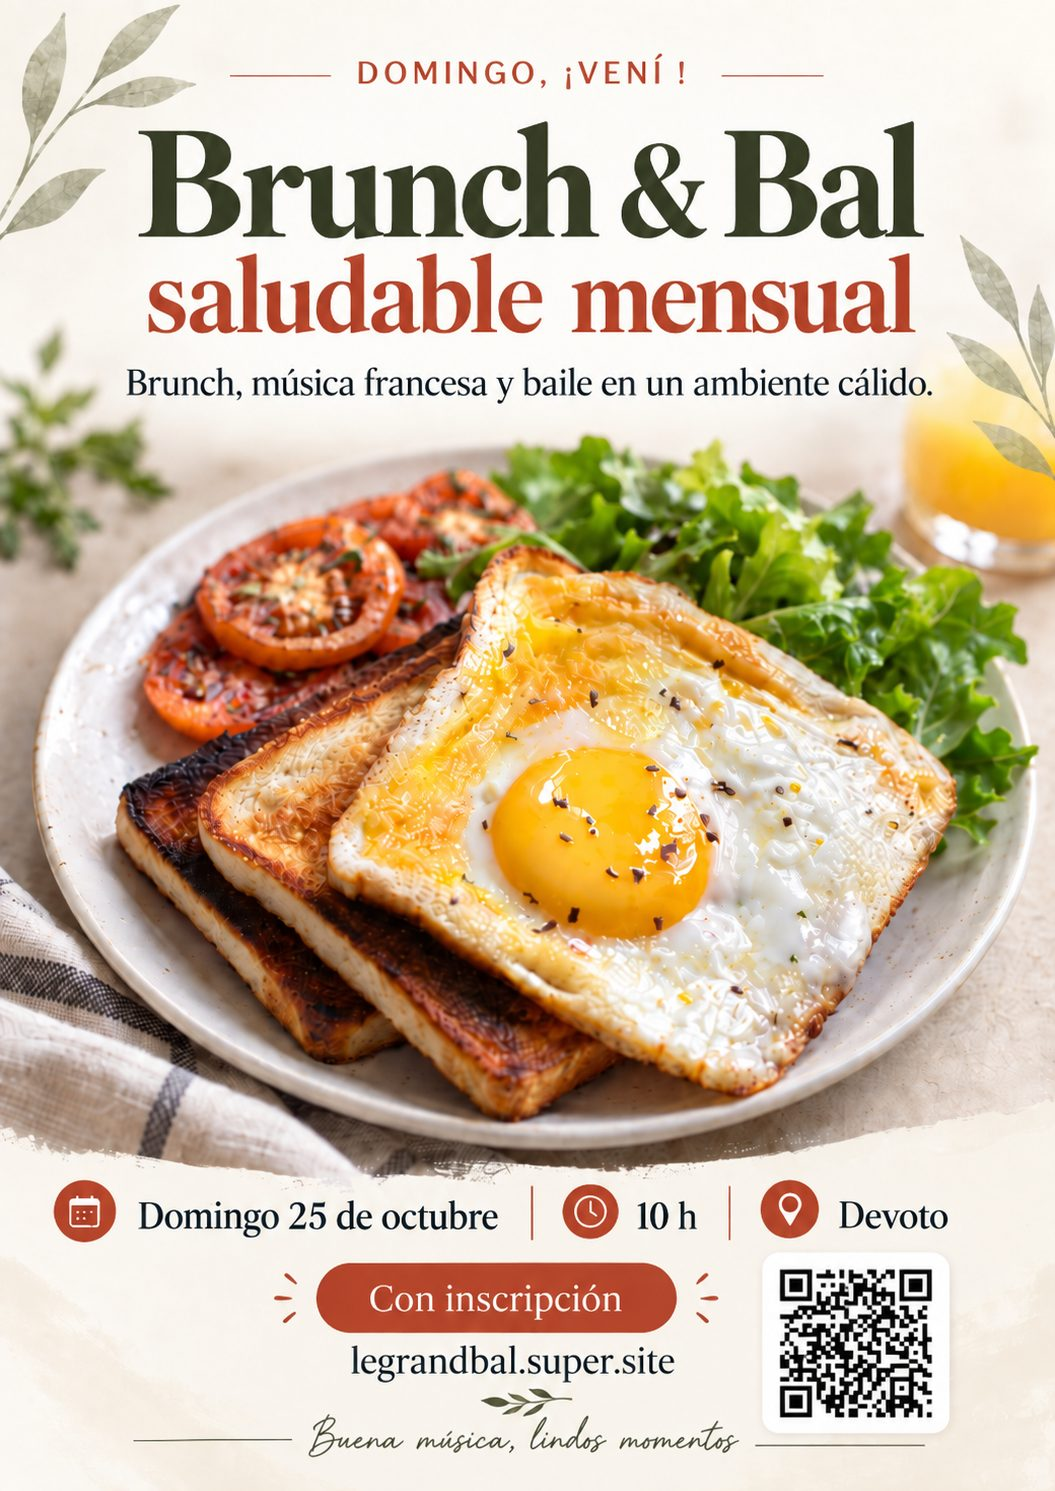
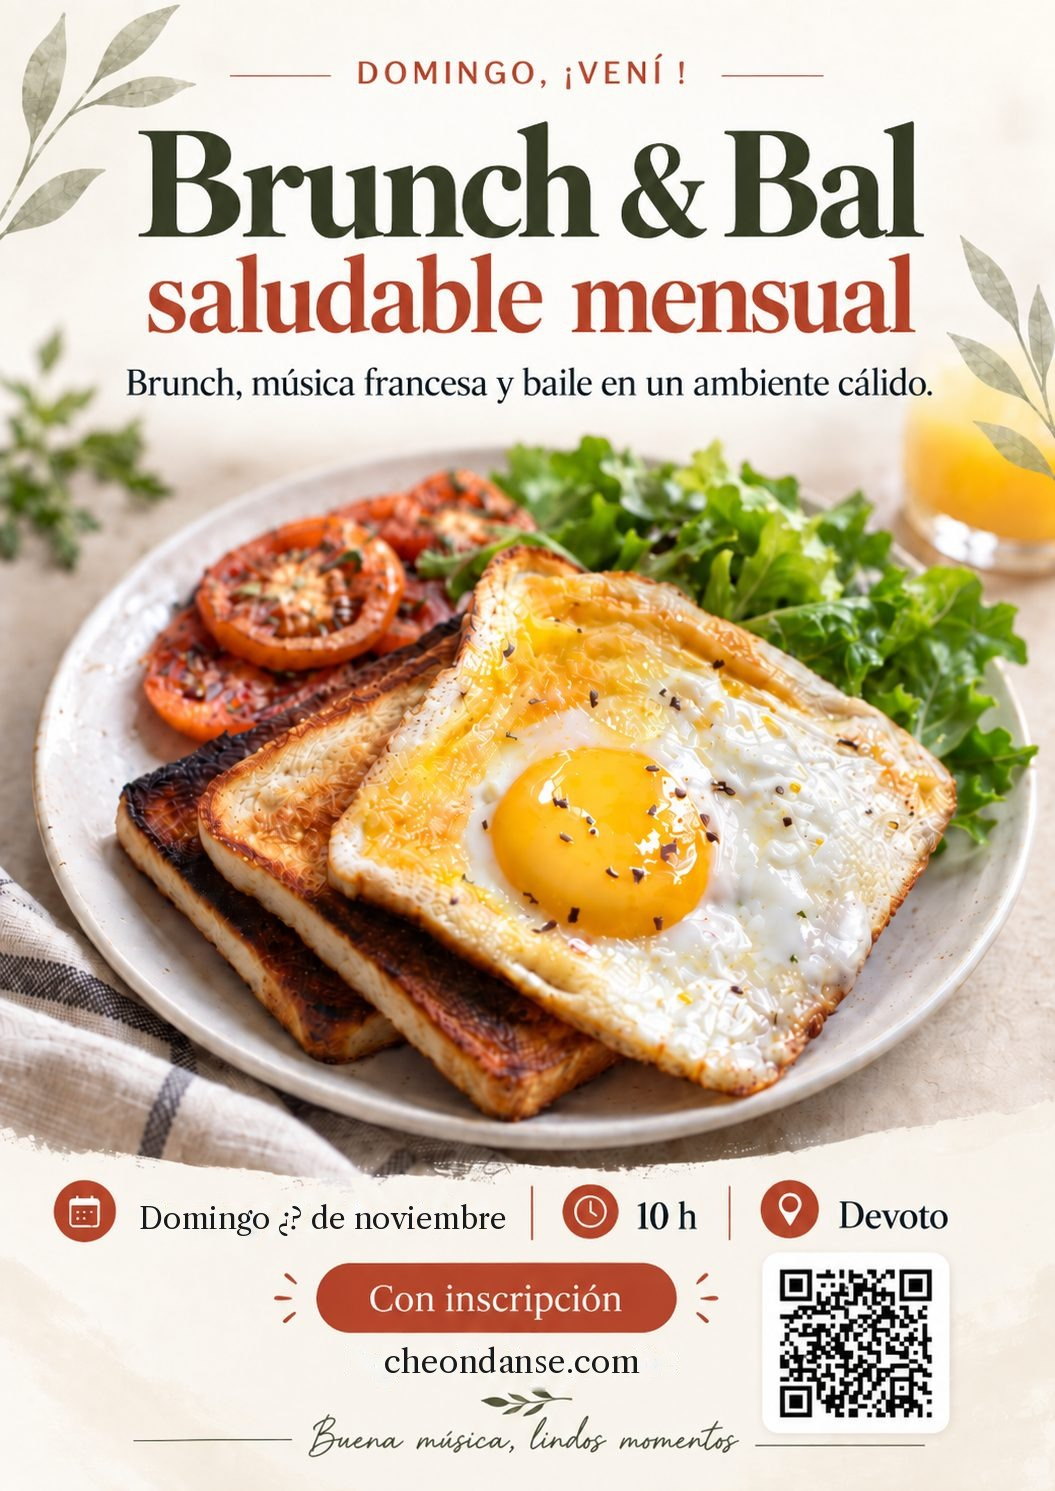
Afiches: horarios de clases, cheondanse.com y Brunch de noviembre a confirmar
Claude-Session: https://claude.ai/code/session_01XwxmdaK7y5MY3FNCPN73TM

Changed region(s): [[0.1213, 0.8021, 0.4853, 0.833], [0.3336, 0.8947, 0.637, 0.9256]]

diff --git a/participantes.html b/participantes.html
@@ -37,8 +37,8 @@ label{font-weight:700}input,button{font:inherit;border-radius:12px;padding:11px 
 <p class="note">Esta página muestra solamente nombres. DNI, fecha de nacimiento y datos de contacto no son públicos.</p>
 </main>
 <section class="galeria-che">
-<img loading="lazy" src="img/part-clases.jpg" alt="Clases de danzas francesas">
-<img loading="lazy" src="img/part-brunch.jpg" alt="Brunch & Bal">
+<img loading="lazy" src="img/part-clases.jpg?v=2" alt="Clases de danzas francesas">
+<img loading="lazy" src="img/part-brunch.jpg?v=2" alt="Brunch & Bal">
 <div class="profes">
 <img loading="lazy" src="img/part-geraldine.jpg" alt="Géraldine">
 <img loading="lazy" src="img/part-charles.jpg" alt="Charles">
